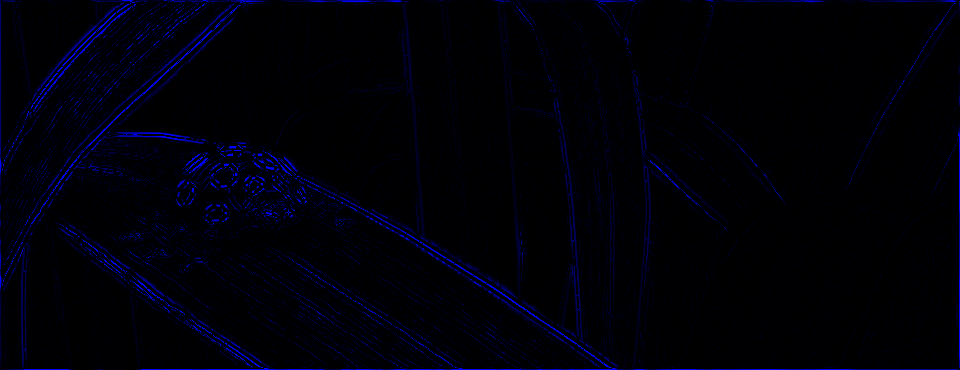
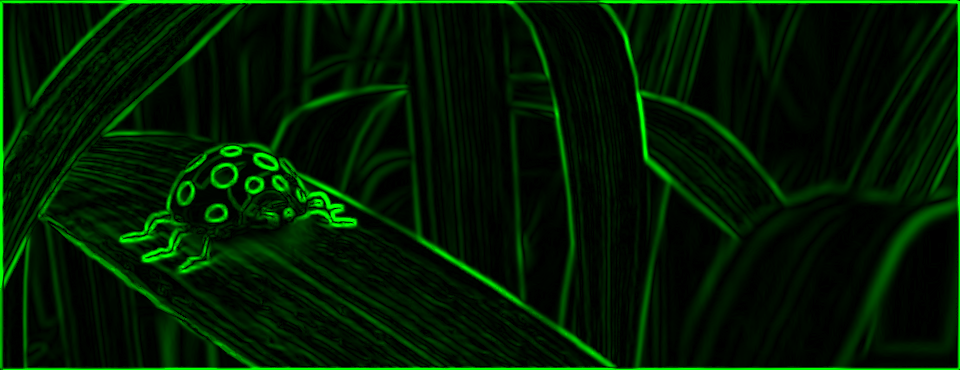
Removed unneded code. Changed pictures

diff --git a/Image_Edge_Detection/include/image.h b/Image_Edge_Detection/include/image.h
@@ -153,58 +153,4 @@ const float kernel_7d8pi[3][3] =
 		{0,0,1}
 };
 
-
-
-
-/*
-const float kernel_0d8pi[3][3] =
-{
-		{0,-2,0},
-		{2,1,2},
-		{0,-2,0}
-};
-const float kernel_1d8pi[3][3] =
-{
-		{-1,-1,1},
-		{1,1,1},
-		{1,-1,-1}
-};
-const float kernel_2d8pi[3][3] =
-{
-		{-2,0,2},
-		{0,1,0},
-		{2,0,-2}
-};
-const float kernel_3d8pi[3][3] =
-{
-		{-1,1,1},
-		{-1,1,-1},
-		{1,1,-1}
-};
-const float kernel_4d8pi[3][3] =
-{
-		{0,2,0},
-		{-2,1,-2},
-		{0,2,0}
-};
-const float kernel_5d8pi[3][3] =
-{
-		{1,1,-1},
-		{-1,1,-1},
-		{-1,1,1}
-};
-const float kernel_6d8pi[3][3] =
-{
-		{2,0,-2},
-		{0,1,0},
-		{-2,0,2}
-};
-const float kernel_7d8pi[3][3] =
-{
-		{1,-1,-1},
-		{1,1,1},
-		{-1,-1,1}
-};
-*/
-
 #endif /* INCLUDE_IMAGE_H_ */

diff --git a/Image_Edge_Detection/src/main.cpp b/Image_Edge_Detection/src/main.cpp
@@ -4,7 +4,7 @@
 
 int main(int argc, char* argv[])
 {
-	Color channel = blue;
+	Color channel = green;
 	char* file = "test.png";
 
 	std::cout<< "Edge detection started.\n";
@@ -23,11 +23,11 @@ int main(int argc, char* argv[])
 
 		my_png->Calculate_Differential_Intensity(channel);
 
-		my_png->Encode_From_Disk("testxG5.png");
+		my_png->Encode_From_Disk("testxB5.png");
 
 		my_png->Calculate_Angular_Intensity(channel);
 
-		my_png->Encode_From_Disk("testxAG5.png");
+		my_png->Encode_From_Disk("testxAB5.png");
 
 
 		std::cout<< "RGB edge detection completed.\n";
